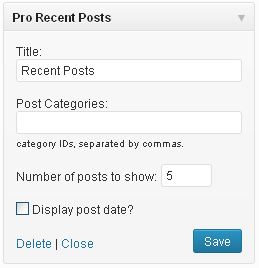
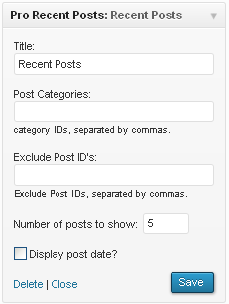
launch varsion 1.1 add exclude post option in recent post widget
git-svn-id: https://plugins.svn.wordpress.org/pro-recent-post-widget/trunk@812899 b8457f37-d9ea-0310-8a92-e5e31aec5664

diff --git a/pro-recent-post-widget.php b/pro-recent-post-widget.php
@@ -3,7 +3,7 @@
 Plugin Name: Pro Recent Post Widget
 Plugin URI: http://aynsoft.com/
 Description: Pro Recent Post Widget plugin.You have choice to specific category recent post show
-Version: 1.0
+Version: 1.1
 Author: Shambhu Prasad Patnaik
 Author URI:http://aynsoft.com/
 */
@@ -35,7 +35,9 @@ class Pro_Recent_Post_Widget extends WP_Widget {
  	 $number = 5;
 	 $show_date = isset( $instance['show_date'] ) ? $instance['show_date'] : false;
 	 $post_category = empty( $instance['post_category'] ) ? '' : $instance['post_category'];
-     $r = new WP_Query( apply_filters( 'widget_posts_args', array( 'posts_per_page' => $number, 'no_found_rows' => true, 'post_status' => 'publish', 'ignore_sticky_posts' => true,'cat'=>$post_category ) ) );
+	 $exclude_post = explode(',',empty( $instance['exclude_post'] ) ? '' : $instance['exclude_post']);
+
+     $r = new WP_Query( apply_filters( 'widget_posts_args', array( 'posts_per_page' => $number, 'no_found_rows' => true, 'post_status' => 'publish', 'ignore_sticky_posts' => true,'cat'=>$post_category,'post__not_in'=>$exclude_post ) ) );
 	 //print_r($r);die();
 	 if ($r->have_posts()) :
      ?>
@@ -72,6 +74,7 @@ class Pro_Recent_Post_Widget extends WP_Widget {
 		$instance['number'] = (int) $new_instance['number'];
 		$instance['show_date'] = (bool) $new_instance['show_date'];
 		$instance['post_category'] = strip_tags($new_instance['post_category']);
+		$instance['exclude_post'] = strip_tags($new_instance['exclude_post']);
 		return $instance;
 	}
 
@@ -92,6 +95,7 @@ class Pro_Recent_Post_Widget extends WP_Widget {
 	 $number    = isset( $instance['number'] ) ? absint( $instance['number'] ) : 5;
 	 $show_date = isset( $instance['show_date'] ) ? (bool) $instance['show_date'] : false;
 	 $post_category    = isset( $instance['post_category'] ) ? esc_attr($instance['post_category']) : '';
+	 $exclude_post    = isset( $instance['exclude_post'] ) ? esc_attr($instance['exclude_post']) : '';
 	?>
 	 <p>
 	  <label for="<?php echo $this->get_field_id( 'title' ); ?>"><?php _e( 'Title:' ); ?></label> 
@@ -102,6 +106,12 @@ class Pro_Recent_Post_Widget extends WP_Widget {
 	  <input class="widefat" id="<?php echo $this->get_field_id( 'post_category' ); ?>" name="<?php echo $this->get_field_name( 'post_category' ); ?>" type="text" value="<?php echo esc_attr( $post_category); ?>" />
 	  <br />
 	  <small><?php _e( 'category IDs, separated by commas.' ); ?></small>
+	 </p>
+	 <p>
+	  <label for="<?php echo $this->get_field_id( 'exclude_post' ); ?>"><?php _e( 'Exclude Post  ID\'s:' ); ?></label> 
+	  <input class="widefat" id="<?php echo $this->get_field_id( 'exclude_post' ); ?>" name="<?php echo $this->get_field_name( 'exclude_post' ); ?>" type="text" value="<?php echo esc_attr( $exclude_post); ?>" />
+	  <br />
+	  <small><?php _e( 'Exclude Post IDs, separated by commas.' ); ?></small>
 	 </p>
 	 <p>
 	  <label for="<?php echo $this->get_field_id( 'number' ); ?>"><?php _e( 'Number of posts to show:' ); ?></label>
@@ -117,10 +127,12 @@ class Pro_Recent_Post_Widget extends WP_Widget {
 
 // register Pro_Recent_Post_Widget widget
 add_action( 'widgets_init', create_function( '', 'register_widget( "Pro_Recent_Post_Widget" );' ) );
-register_deactivation_hook(__FILE__, 'shambhu_plugin_deactivate');
+register_deactivation_hook(__FILE__, 'pro_recent_post_widget_deactivate');
 
-function shambhu_plugin_deactivate ()
+if (!function_exists('pro_recent_post_widget_deactivate')):
+function pro_recent_post_widget_deactivate ()
 {
  unregister_widget('Pro_Recent_Post_Widget');
 }
+endif;
 ?>
